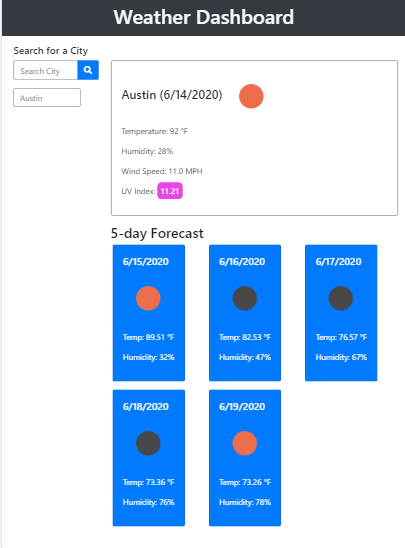
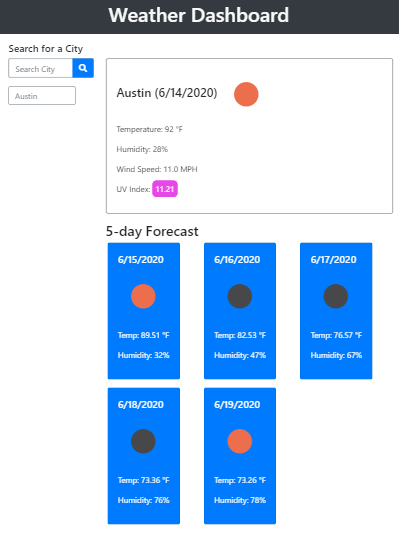
added bootstrap and personal css styling to make project screenshots the same size

diff --git a/projects.html b/projects.html
@@ -59,11 +59,14 @@
 								<div class="card-header">
 									<h5>Movie Selection App</h5>
 								</div>
-								<img
-									src="assets/images/movieSelection.png"
-									class="card-img-top"
-									alt="Movie Selection App Homepage"
-								/>
+								<div class="embed-responsive embed-responsive-1by1">
+									<img
+										src="assets/images/movieSelection.png"
+										class="card-img-top embed-responsive-item"
+										alt="Movie Selection App Homepage"
+									/>
+								</div>
+
 								<div class="card-body">
 									<h5 class="card-title">Description</h5>
 									<p class="card-text">
@@ -91,11 +94,13 @@
 								<div class="card-header">
 									<h5>Weather Dashboard</h5>
 								</div>
-								<img
-									src="assets/images/weatherDashboard.png"
-									class="card-img-top"
-									alt="Weather Dashboard Homepage"
-								/>
+								<div class="embed-responsive embed-responsive-1by1">
+									<img
+										src="assets/images/weatherDashboard.png"
+										class="card-img-top embed-responsive-item"
+										alt="Weather Dashboard Homepage"
+									/>
+								</div>
 								<div class="card-body">
 									<h5 class="card-title">Description</h5>
 									<p class="card-text">
@@ -129,11 +134,13 @@
 								<div class="card-header">
 									<h5>Online Work Day Planner</h5>
 								</div>
-								<img
-									src="assets/images/workDayPlanner.png"
-									class="card-img-top"
-									alt="Online Work Day Planner"
-								/>
+								<div class="embed-responsive embed-responsive-1by1">
+									<img
+										src="assets/images/workDayPlanner.png"
+										class="card-img-top embed-responsive-item"
+										alt="Online Work Day Planner"
+									/>
+								</div>
 								<div class="card-body">
 									<h5 class="card-title">Description</h5>
 									<p class="card-text">
@@ -161,11 +168,13 @@
 								<div class="card-header">
 									<h5>Online Code Quiz</h5>
 								</div>
-								<img
-									src="assets/images/codeQuiz.png"
-									class="card-img-top"
-									alt="Online Code Quiz Start Page"
-								/>
+								<div class="embed-responsive embed-responsive-1by1">
+									<img
+										src="assets/images/codeQuiz.png"
+										class="card-img-top embed-responsive-item"
+										alt="Online Code Quiz Start Page"
+									/>
+								</div>
 								<div class="card-body">
 									<h5 class="card-title">Description</h5>
 									<p class="card-text">

diff --git a/index.html b/index.html
@@ -43,7 +43,7 @@
 				<div class="row mb-4">
 					<div class="col-md-3"></div>
 					<div class="col-md-6">
-						<h3 class="page-header pt-4">About</h3>
+						<h3 class="page-header pt-4">About Me</h3>
 					</div>
 					<div class="col-md-3"></div>
 				</div>

diff --git a/assets/css/style.css b/assets/css/style.css
@@ -34,3 +34,7 @@ footer {
 	display: flex;
 	justify-content: center;
 }
+
+.embed-responsive .card-img-top {
+	object-fit: contain;
+}
